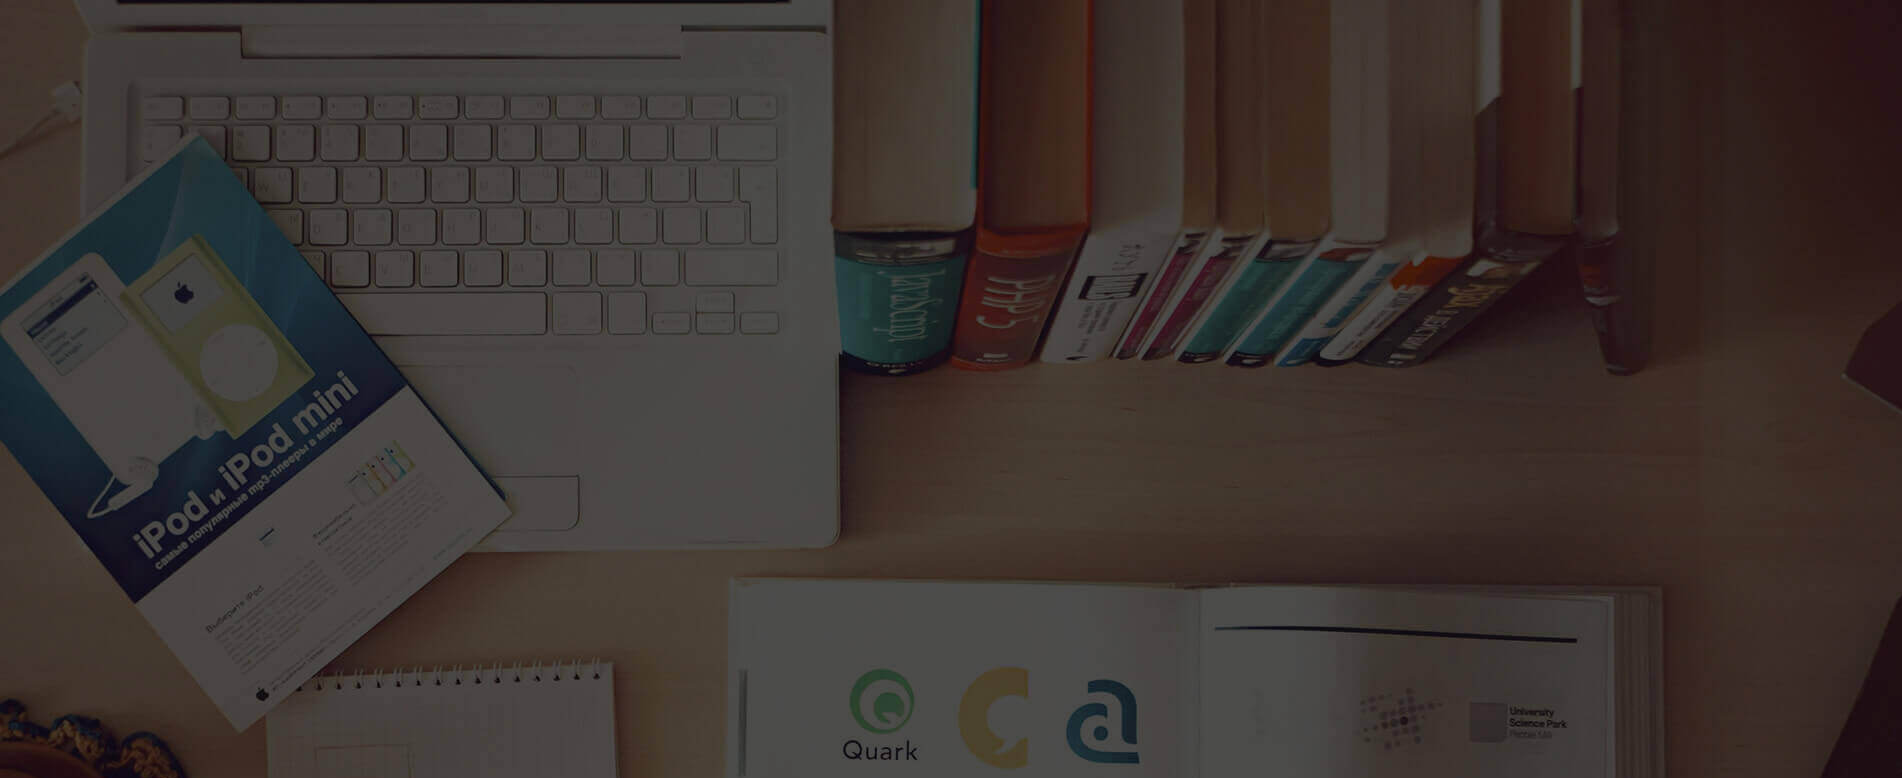
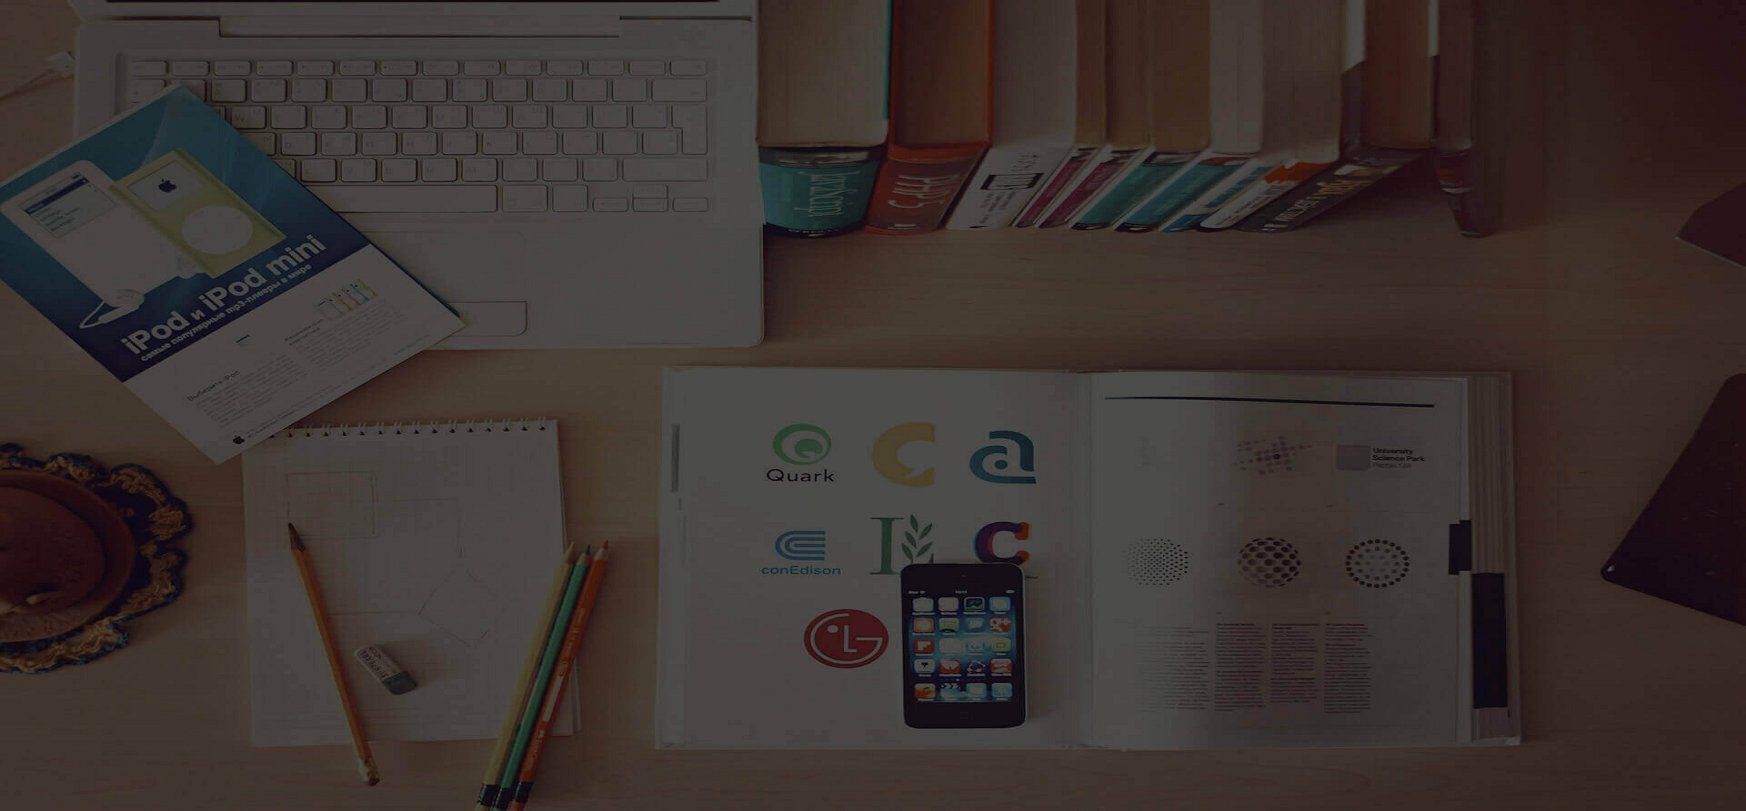
hero section swiper done

diff --git a/src/Components/heroSection/HeroSection.jsx b/src/Components/heroSection/HeroSection.jsx
@@ -1,10 +1,33 @@
 import React from 'react'
+import { Swiper, SwiperSlide } from "swiper/react";
+import { Autoplay, Pagination, Navigation } from 'swiper/modules';
+import imgSrc1 from '../../assets/bg3.png'
+import imgSrc2 from '../../assets/bg4.png'
+import imgSrc3 from '../../assets/bg5.png'
+import 'swiper/css'
+import 'swiper/css/pagination';
+import 'swiper/css/navigation';
 import './Hero.scss'
 
-const HeroSection = ({imgSrc,hd1,hd2}) => {
+const HeroSection = ({ imgSrc, hd1, hd2 }) => {
     return (
         <div className="hero-section">
-            <img src={imgSrc} className='heroimage' alt="" />
+            <Swiper spaceBetween={30}
+                centeredSlides={true}
+                autoplay={{
+                    delay: 2500,
+                    disableOnInteraction: false,
+                }}
+                pagination={{
+                    clickable: true,
+                }}
+                navigation={true}
+                modules={[Autoplay, Pagination, Navigation]}
+                className="mySwiper">
+                <SwiperSlide><img src={imgSrc1} className='heroimage' alt="" /></SwiperSlide>
+                <SwiperSlide><img src={imgSrc2} className='heroimage' alt="" /></SwiperSlide>
+                <SwiperSlide><img src={imgSrc3} className='heroimage' alt="" /></SwiperSlide>
+            </Swiper>
 
             <div className='detail'>
                 <h1>{hd1}</h1>

diff --git a/src/Components/footer/Footer.jsx b/src/Components/footer/Footer.jsx
@@ -81,8 +81,8 @@ const Footer = () => {
           <li><Link to='/contact'>Help Desk |</Link></li>
           <li><Link to='/student-login'>Login</Link></li>
         </div>
-        <div>
-          <p style={{marginLeft:"-6rem"}}>© 2023 All Rights Reserved. Created with ❤ by <a href="https://owntechnologies.com/">OwnTechnologies</a></p>
+        <div className='rights'>
+          <p style={{marginLeft:"-6rem"}}>© 2023 All Rights Reserved. Created with ❤ by <a href="https://owntechnologies.com/" target='_blank'>OwnTechnologies</a></p>
         </div>  
         <div>
           <a href="#navbar"><img src={down} alt="" /></a>

diff --git a/src/Components/heroSection/Hero.scss b/src/Components/heroSection/Hero.scss
@@ -7,15 +7,25 @@ $text: #646262;
 .hero-section {
     position: relative;
 
-    .heroimage {
+    .swiper-slide img {
         width: 100%;
         height: auto;
         object-fit: cover;
     }
 
+    .swiper-pagination-bullets {
+        display: none;
+    }
+
+    .swiper-button-prev,
+    .swiper-button-next {
+        display: none;
+    }
+
     .detail {
         font-family: 'Poppins';
         position: absolute;
+        z-index: 1000;
         top: 17vw;
         right: 6vw;
         color: #fff;
@@ -45,4 +55,4 @@ $text: #646262;
             text-align: end;
         }
     }
-}  
+}

diff --git a/src/Components/footer/footer.scss b/src/Components/footer/footer.scss
@@ -222,6 +222,11 @@ $text: #646262;
             width: 1.4vw;
         }
     }
+    .rights{
+        a{
+            color: $blue;
+        }
+    }
 
     @media screen and (max-width:"480px") {
         padding: .7rem 4vw;
